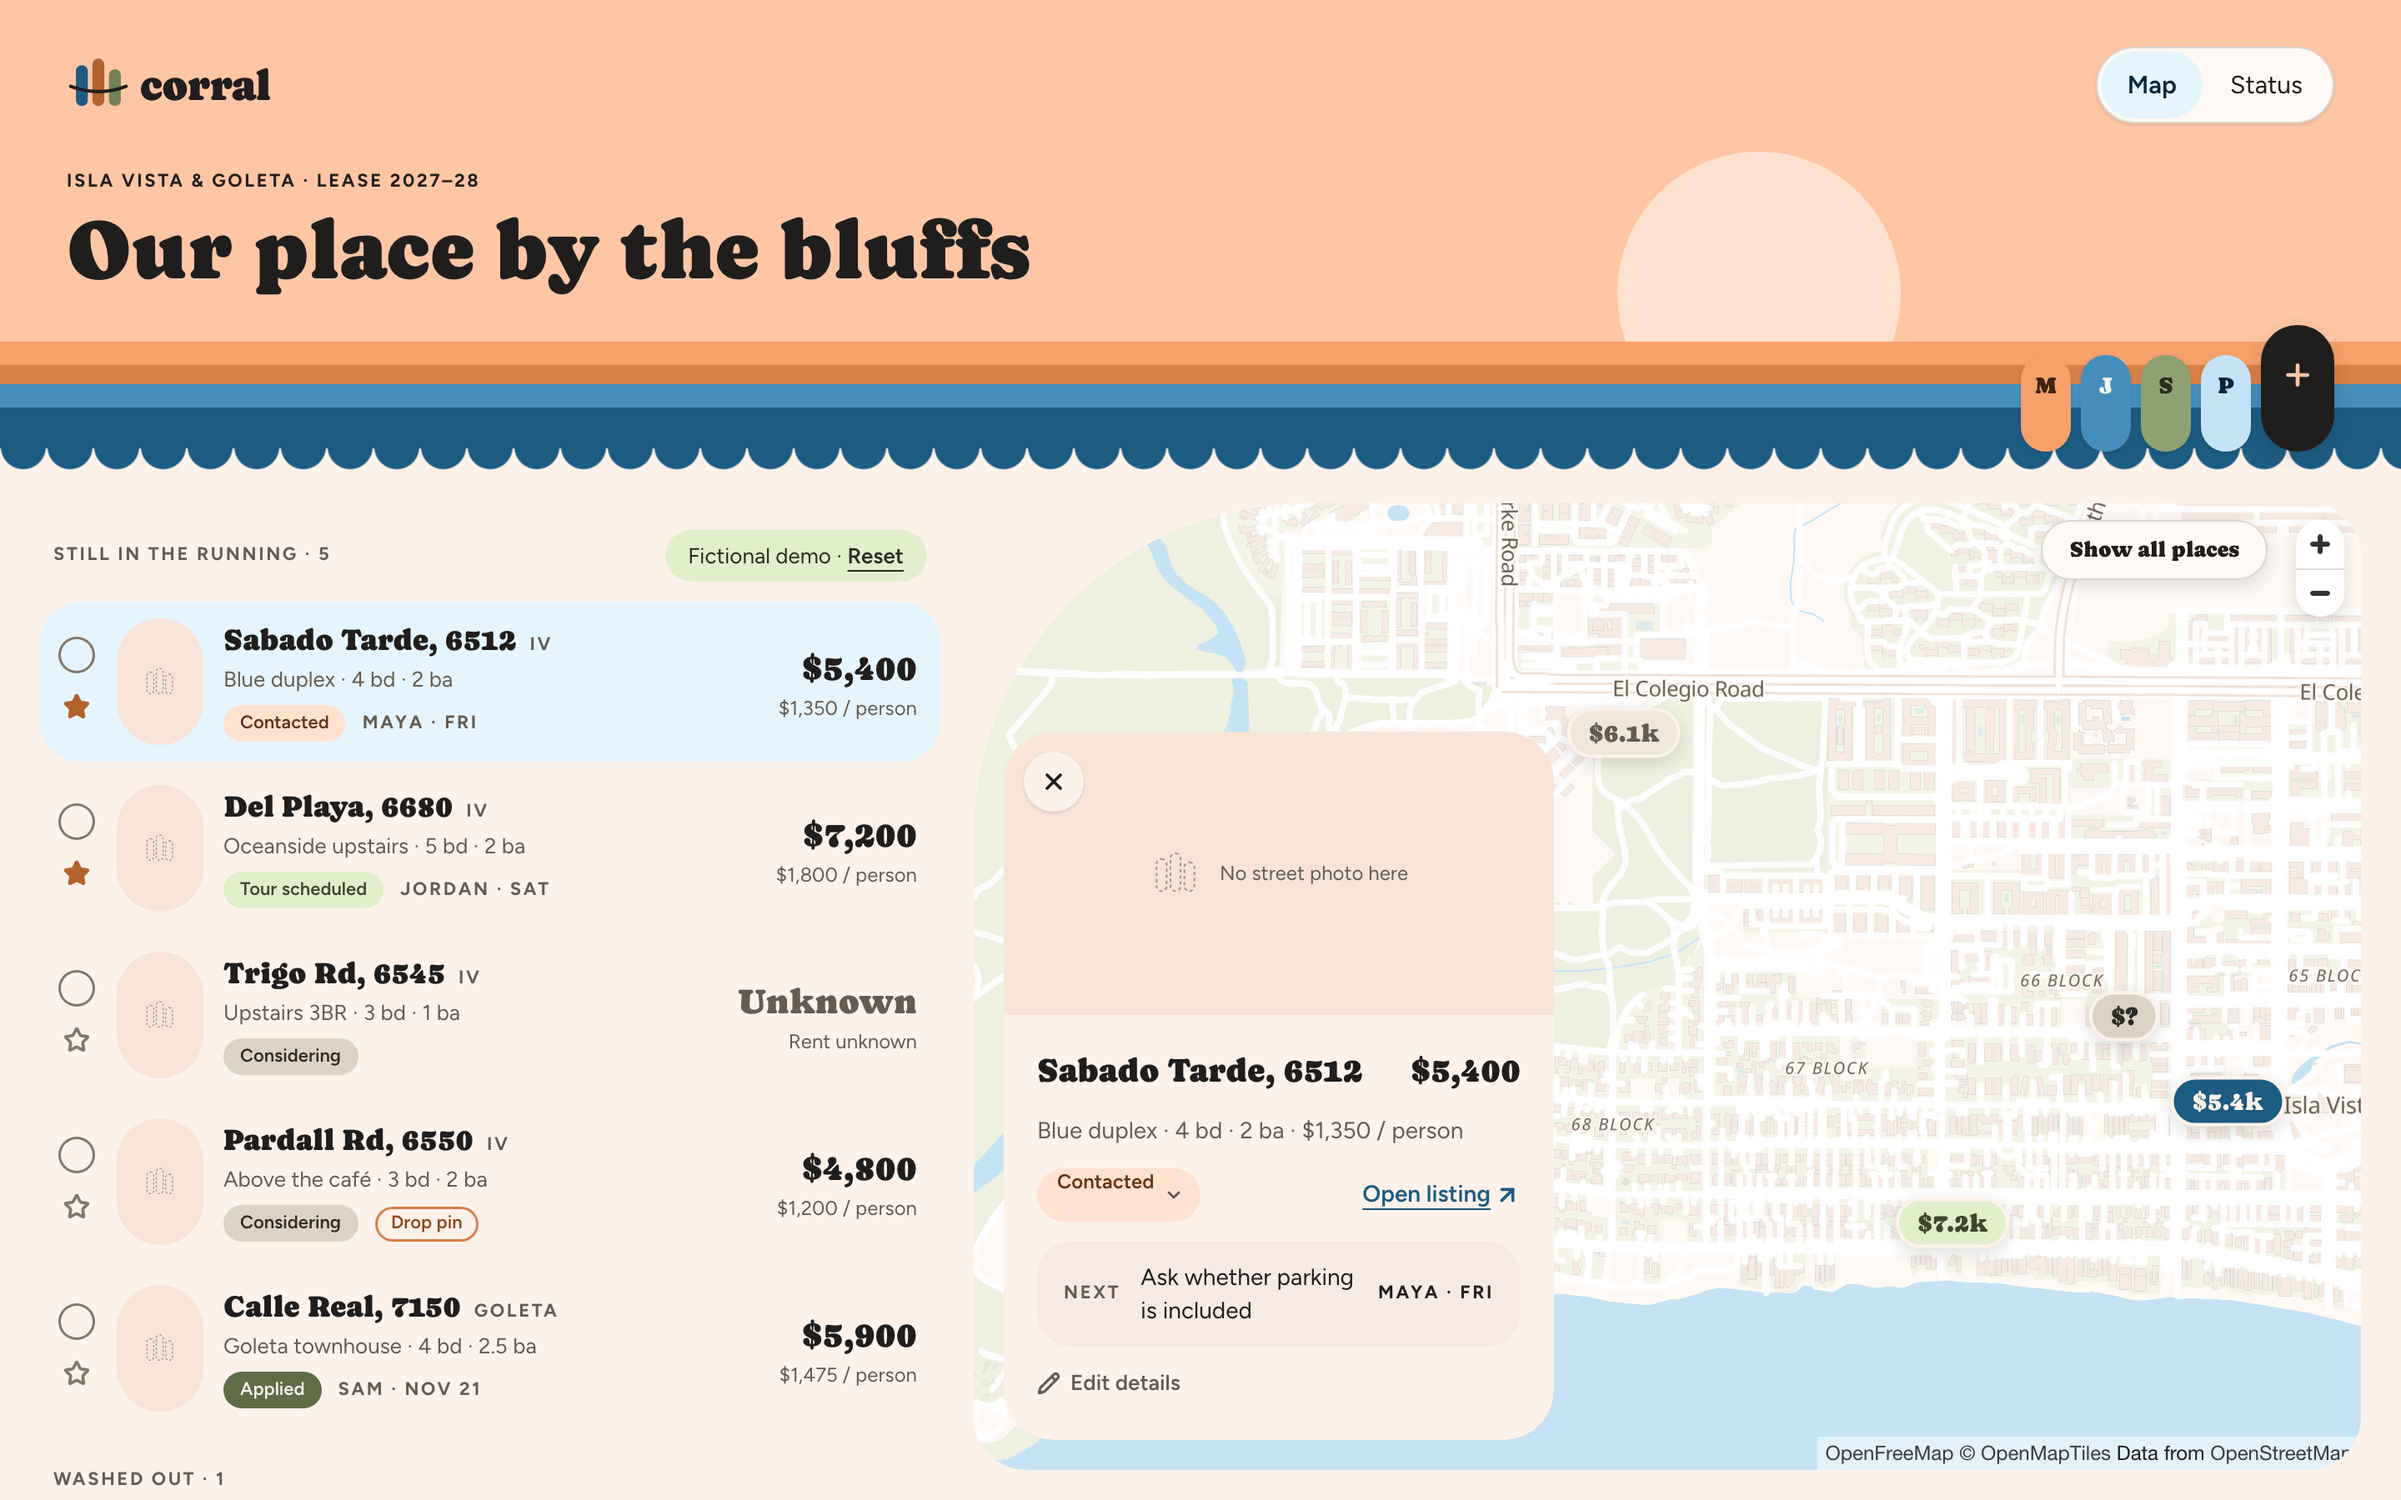
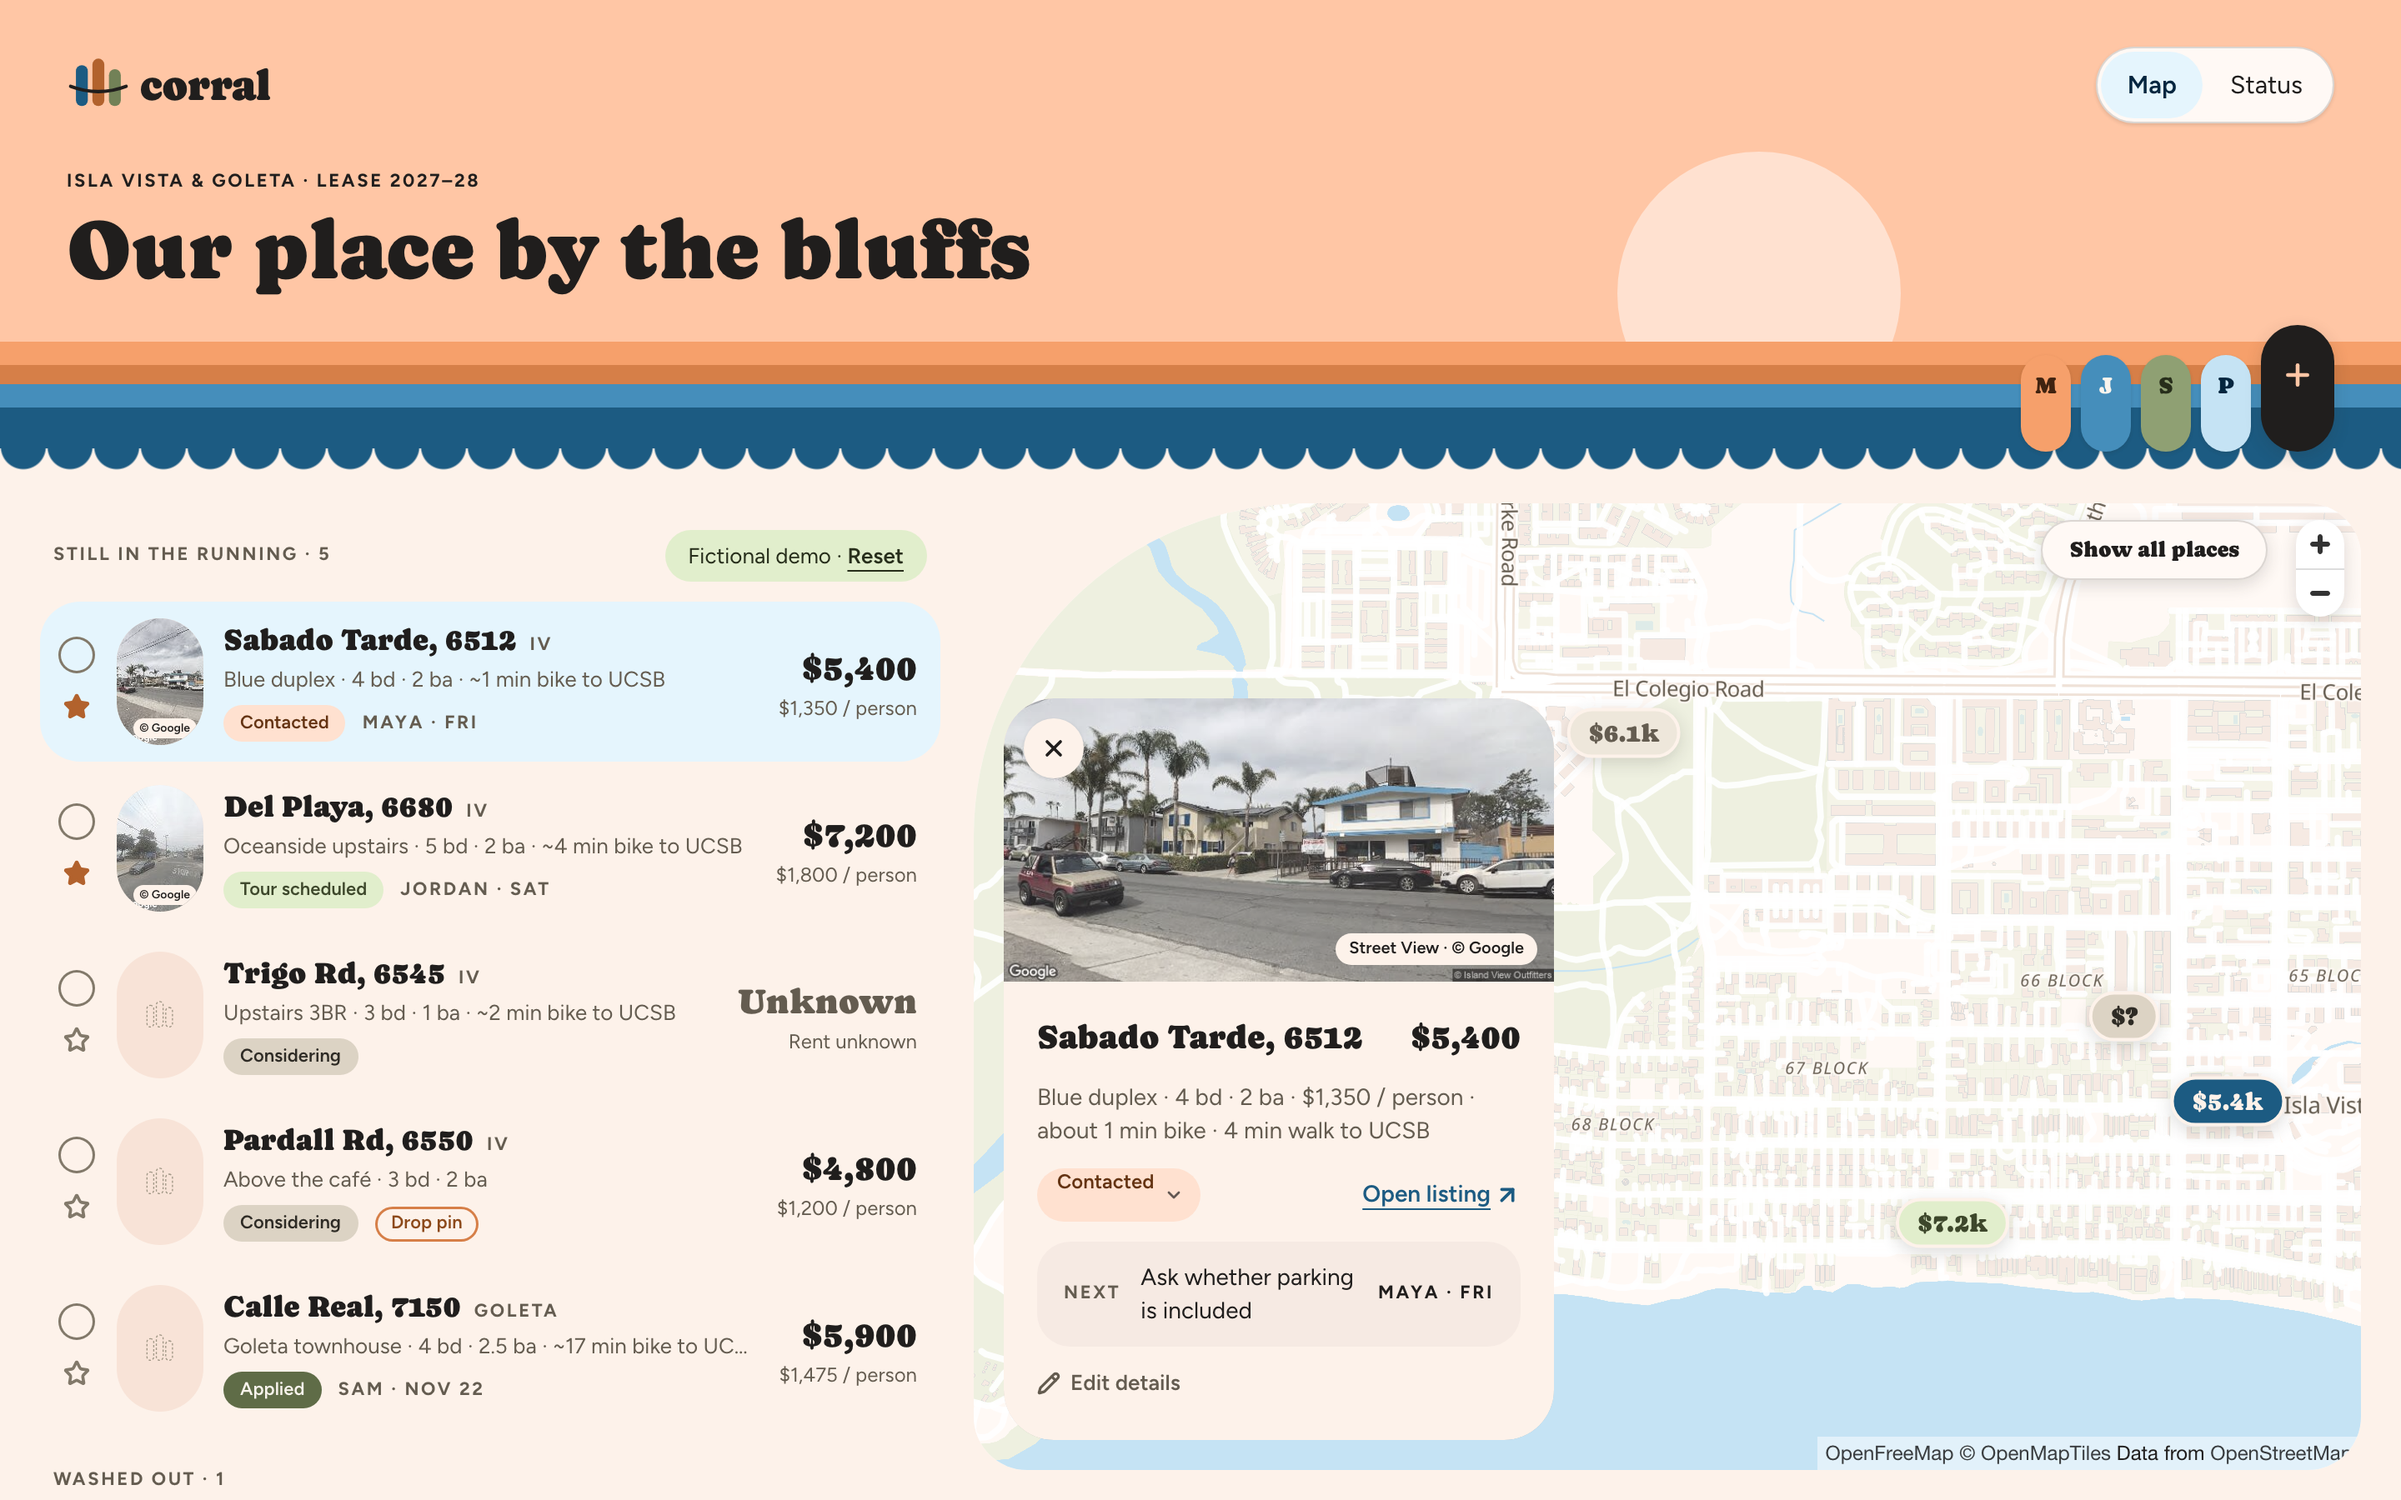
README: Street View notes and refreshed screenshots with real photos

diff --git a/README.md b/README.md
@@ -63,7 +63,7 @@ supabase/tests/         rls_check.sql: owner, invited member, outsider and anon 
 - **Commute is an estimate, not a route.** Straight-line distance to the Pardall entrance times 1.3, at walking and biking speeds. No paid directions API, and it's always shown as "about".
 - **Per-person rent divides by group size**, not bedrooms, because the group splits the rent.
 - **MapLibre v5 with OpenFreeMap tiles.** No API key, styled to the palette. v6's ES-module worker doesn't load through Next's bundler, so it stays pinned to v5.
-- **Street View is optional.** Without `GOOGLE_MAPS_API_KEY`, photo frames show a neutral placeholder and no request is made.
+- **Street View is optional and fenced in.** Photos go through a server proxy so the key never reaches the browser, only coordinates around Isla Vista and Goleta are allowed, and the key is restricted to the Street View Static API with a daily cap. Without `GOOGLE_MAPS_API_KEY`, frames show a neutral placeholder and no request is made.
 
 ## Run it locally
 
